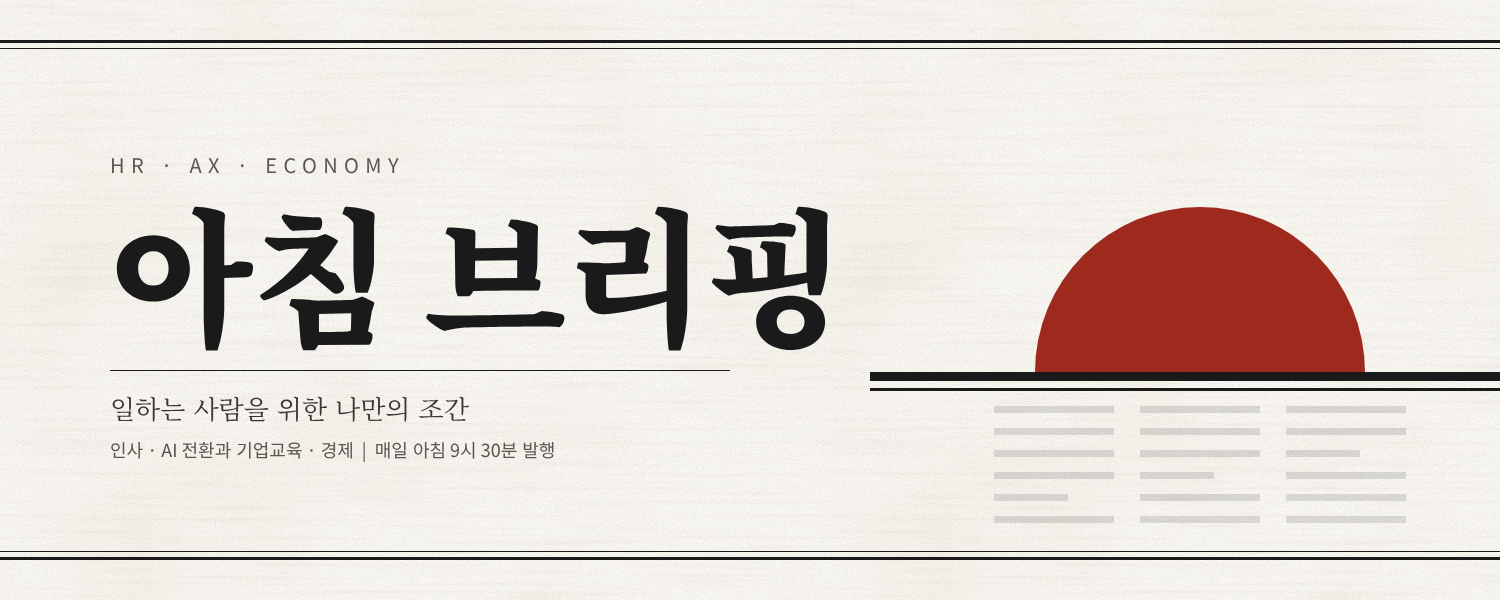
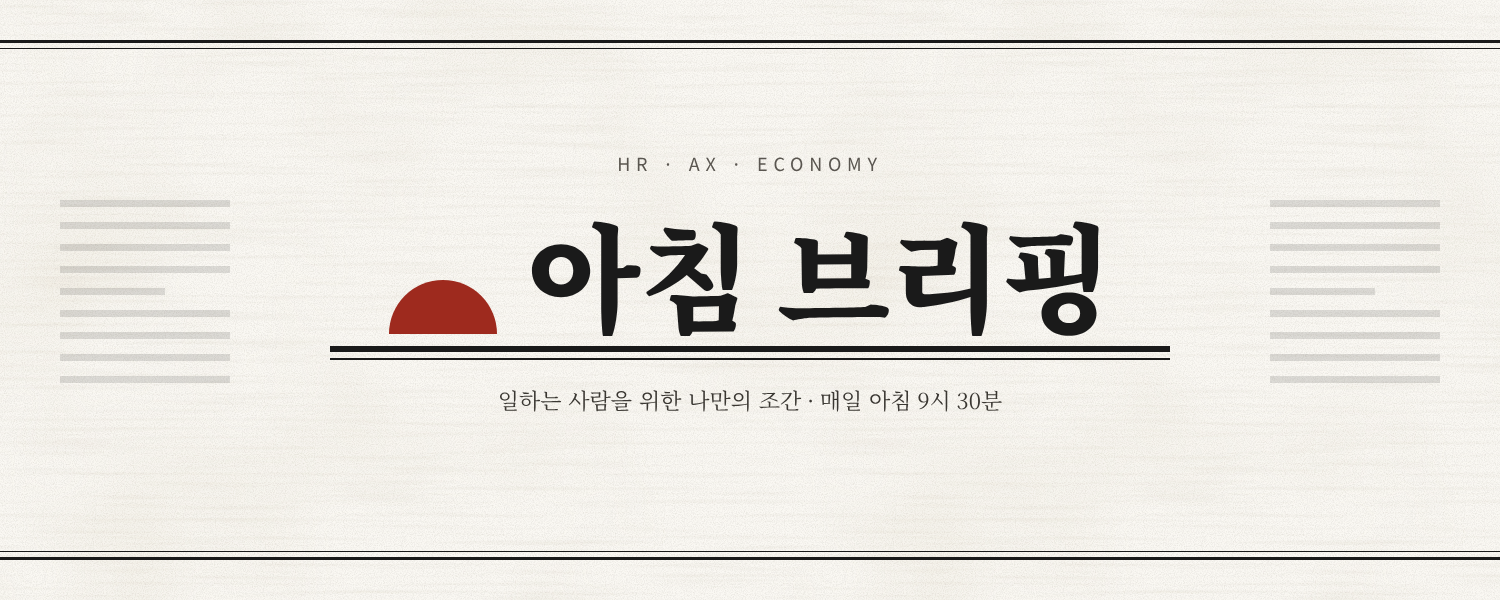
Notion 커버·공유 이미지 구도를 가운데 정렬로 변경 (갤러리·페이지 커버에서 잘리지 않게)
Claude-Session: https://claude.ai/code/session_01YEBf741zHhmtugAf3AtcSq

diff --git a/scripts/make_images.py b/scripts/make_images.py
@@ -42,34 +42,35 @@ def bars(n, x, y, w, gap=22, h=8, seed=0):
     return "".join(out)
 
 
-def cover_html(w: int, h: int) -> str:
-    s = h / 600  # 600px 높이 기준 비율
-    sun_r = 165 * s
-    horizon = h * 0.62
-    sun_cx = w - 300 * s
-    cols = ""
-    col_w, col_gap = 120 * s, 26 * s
-    left0 = sun_cx - (col_w * 3 + col_gap * 2) / 2
-    for c in range(3):
-        cols += bars(6, left0 + c * (col_w + col_gap), horizon + 34 * s, col_w, gap=22 * s, h=7 * s, seed=c)
+def cover_html(w: int, h: int, notion: bool = False) -> str:
+    """가운데 정렬 구도. Notion은 갤러리 카드에서 양옆, 페이지 커버에서 위아래를 자르므로
+    제호·해·가로줄을 가운데 띠(세로 약 200~400px, 가로 약 300~1200px)에 모읍니다."""
+    s = h / 600
+    cx, cy = w / 2, h / 2
+    title_px = 118 * s
+    sun_r = 54 * s
+    row_w = 760 * s
+    base = cy + 40 * s          # 제호 아랫선 = 지평선
+    left = cx - row_w / 2
+    # 가장자리 장식용 신문 줄 (잘려도 무방)
+    deco = ""
+    for side_x in (60 * s, w - 60 * s - 170 * s):
+        deco += bars(9, side_x, cy - 100 * s, 170 * s, gap=22 * s, h=7 * s, seed=int(side_x) % 5)
     return f"""<html><body style='margin:0'>
 <div id='s' style='position:relative;width:{w}px;height:{h}px;overflow:hidden;background-color:{PAPER};background-image:{TEXTURE};background-size:800px 800px;font-family:{SANS};color:{INK}'>
   <div style='position:absolute;left:0;right:0;top:{40*s}px;border-top:{3*s}px solid {INK}'></div>
   <div style='position:absolute;left:0;right:0;top:{48*s}px;border-top:{1*s}px solid {INK}'></div>
   <div style='position:absolute;left:0;right:0;bottom:{48*s}px;border-top:{1*s}px solid {INK}'></div>
   <div style='position:absolute;left:0;right:0;bottom:{40*s}px;border-top:{3*s}px solid {INK}'></div>
-
-  <div style='position:absolute;left:{sun_cx - sun_r}px;top:{horizon - sun_r}px;width:{sun_r*2}px;height:{sun_r}px;border-radius:{sun_r}px {sun_r}px 0 0;background:{ACCENT}'></div>
-  <div style='position:absolute;left:{sun_cx - 330*s}px;width:{660*s}px;top:{horizon}px;height:{9*s}px;background:{INK}'></div>
-  <div style='position:absolute;left:{sun_cx - 330*s}px;width:{660*s}px;top:{horizon + 16*s}px;height:{2.5*s}px;background:{INK}'></div>
-  {cols}
-
-  <div style='position:absolute;left:{110*s}px;top:{150*s}px'>
-    <div style='font-size:{20*s}px;letter-spacing:.32em;color:{MUTED}'>HR · AX · ECONOMY</div>
-    <div style='font-family:{SERIF};font-weight:900;font-size:{148*s}px;line-height:1.05;letter-spacing:-.02em;margin-top:{14*s}px'>아침 브리핑</div>
-    <div style='margin-top:{22*s}px;padding-top:{18*s}px;border-top:{1.5*s}px solid {INK};font-family:{SERIF};font-size:{26*s}px;color:#3A3732;width:{620*s}px'>일하는 사람을 위한 나만의 조간</div>
-    <div style='margin-top:{10*s}px;font-size:{18*s}px;color:{MUTED}'>인사 · AI 전환과 기업교육 · 경제 &nbsp;|&nbsp; 매일 아침 9시 30분 발행</div>
+  {deco}
+  <div style='position:absolute;left:0;width:{w}px;top:{cy - 150*s}px;text-align:center;font-size:{18*s}px;letter-spacing:.32em;color:{MUTED}'>HR · AX · ECONOMY</div>
+  <div style='position:absolute;left:{left}px;width:{row_w}px;top:{base - title_px*1.12}px;display:flex;align-items:flex-end;justify-content:center;gap:{30*s}px'>
+    <div style='width:{sun_r*2}px;height:{sun_r}px;border-radius:{sun_r}px {sun_r}px 0 0;background:{ACCENT};flex:none;margin-bottom:{4*s}px'></div>
+    <div style='font-family:{SERIF};font-weight:900;font-size:{title_px}px;line-height:1.1;letter-spacing:-.02em;white-space:nowrap'>아침 브리핑</div>
   </div>
+  <div style='position:absolute;left:{left - 40*s}px;width:{row_w + 80*s}px;top:{base + 6*s}px;height:{6*s}px;background:{INK}'></div>
+  <div style='position:absolute;left:{left - 40*s}px;width:{row_w + 80*s}px;top:{base + 18*s}px;height:{2*s}px;background:{INK}'></div>
+  <div style='position:absolute;left:0;width:{w}px;top:{base + 44*s}px;text-align:center;font-family:{SERIF};font-size:{22*s}px;color:#3A3732'>일하는 사람을 위한 나만의 조간 · 매일 아침 9시 30분</div>
 </div></body></html>"""
 
 
